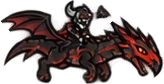
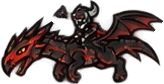
fix(siege): enemies face our side
The enemy sheet faces left; sheets now say which way they face and are
turned only when needed. Version 1.14.63.

diff --git a/bug-hunter/src/siege/model.ts b/bug-hunter/src/siege/model.ts
@@ -20,6 +20,8 @@ export interface Spec { id: number; cost: number; hp: number; damage: number; sp
   /** What it throws or shoots, a picture from its own sheet (`siege/units/shot-<name>`), and whether it spins in flight
       (a rock, a shuriken) or points along its path (a javelin, an arrow). */
   shot?: string; spin?: boolean;
+  /** Its sheet is drawn facing left (the owner's enemy sheets); the rest face right. */
+  facesLeft?: boolean;
   /** Its upgrade forms, level 2 on (docs/cw2-reference.md): each replaces these stats and looks, bought in the workshop. */
   forms?: Form[] }
 /** An upgrade form: its gold price in the workshop and what it changes. */
@@ -28,7 +30,7 @@ export type Form = Partial<Pick<Spec, 'cost' | 'hp' | 'damage' | 'speed' | 'rang
     1 attack, 2 hurt). `size` is the drawn height in field units, from the stand picture's height (0.62 a pixel) and how
     big the unit is meant to be. Every unit's `id` is its place in this list: ours first (10 land, then 5 air), then
     the enemy's, each one stated as the ally it equals in the reference. */
-const unit = (name: string, px: number, k = 1) => ({ sprite: `siege/units/${name}`, size: Math.round(px * 0.62 * k) });
+const unit = (name: string, px: number, k = 1) => ({ sprite: `siege/units/${name}`, size: Math.round(px * 0.62 * k), facesLeft: name.startsWith('foe-') || undefined });
 /** A six-pose sheet (drawn at a higher resolution: 0.4 a pixel of its first walking pose). */
 const six = (name: string, px: number) => ({ sprite: `siege/units/${name}`, size: Math.round(px * 0.4), six: true });
 export const UNITS: readonly Spec[] = [

diff --git a/bug-hunter/src/siege/view.ts b/bug-hunter/src/siege/view.ts
@@ -423,7 +423,11 @@ function fighter(ctx: CanvasRenderingContext2D, s: Siege, u: Fighter, ground: nu
     else if (gone === undefined && u.elite) { ctx.shadowColor = '#ffd84a'; ctx.shadowBlur = 14; }
     else if (gone === undefined && u.boss) { ctx.shadowColor = '#ff3b3b'; ctx.shadowBlur = 16; }
     if (u.stage) ctx.filter = `brightness(${1 - u.stage * 0.22}) saturate(${1 - u.stage * 0.3})`;
-    ctx.drawImage(art.image, -sw / 2, -dh, dw, dh); ctx.filter = 'none';
+    // Everything is drawn facing its way of march; a sheet drawn facing left is turned round for that (and so keeps its
+    // back edge, the right one, on the first pose's).
+    if (spec.facesLeft) { ctx.save(); ctx.scale(-1, 1); ctx.drawImage(art.image, sw / 2 - dw, -dh, dw, dh); ctx.restore(); }
+    else ctx.drawImage(art.image, -sw / 2, -dh, dw, dh);
+    ctx.filter = 'none';
     if (u.elite && gone === undefined) {
       ctx.shadowBlur = 0; ctx.fillStyle = '#f5e6c8'; ctx.strokeStyle = '#3a2a10'; ctx.lineWidth = 1.5;
       const hw = sw, hh = size;

diff --git a/bug-hunter/src/version.ts b/bug-hunter/src/version.ts
@@ -4,7 +4,7 @@
  * This folder migration preserves the public game URL, saves and gameplay.
  * The build stamp changes automatically on each deployment.
  */
-export const GAME_VERSION = '1.14.62';
+export const GAME_VERSION = '1.14.63';
 
 declare const __GAME_BUILD__: { commit: string; built: string };
 /** Build stamp from the shared Vite configuration; safe outside Vite too. */

diff --git a/bug-hunter/docs/siege-roster.md b/bug-hunter/docs/siege-roster.md
@@ -64,7 +64,7 @@ The owner's first two sheets are in: our 15 units and 18 enemy troops, **3 poses
 ## Sheet format (the same for every unit)
 
 - One sheet per unit and visual level; transparent background (real alpha); no text, no shadow; poses in **one row**, with wide empty space between them; all poses at the same scale, standing on the same ground line.
-- **Side view, facing RIGHT** for everything (ours and enemies); the code mirrors enemies.
+- **Side view.** Our units face RIGHT. The enemy sheets so far face LEFT (`facesLeft` in `UNITS`); a sheet that faces the other way is turned in code. Keep every pose of a sheet facing the same way.
 - **5 poses, in this order, for every unit:** 1 walk with legs wide apart (a full stride), 2 walk with legs together (passing step), 3 attack ready (wind-up), 4 attack (the strike; ranged units only the muzzle flash, the shot is drawn in game), 5 hurt (rocking back). Air units: 1 and 2 are two flying frames (wings up, wings down).
 - **Animated in code, not drawn:** walking alternates poses 1 and 2 (about 6 a second) with a bounce, a squash on each footfall and a forward lean; standing is pose 1 breathing; the strike lunges forward; heavy hits push back, and infantry fly back on pose 5 spinning, land and get up; death is pose 5 falling over and fading; flyers float on a sine.
 - **Gatling robots:** 3 sheets, one per stage (whole, one arm, crawling wreck).

diff --git a/bug-hunter/CHANGELOG.md b/bug-hunter/CHANGELOG.md
@@ -4,6 +4,11 @@
 
 This changelog tracks game-version changes starting with v1.12.55. Earlier releases are not reconstructed here.
 
+## 1.14.63 - 2026-10-26
+
+### Fixed - Siege: enemies face our side
+- The owner's enemy sheet is drawn facing left, and the game turned every enemy round as if it faced right, so they marched and attacked backwards. Sheets now say which way they face (`facesLeft`, every enemy sheet) and are turned only when needed. The dragon's and the red dragon rider's hurt poses, drawn the other way in the sheet, are flipped to match.
+
 ## 1.14.62 - 2026-10-26
 
 ### Added - Siege: the archer in four forms, throwing its own projectiles
